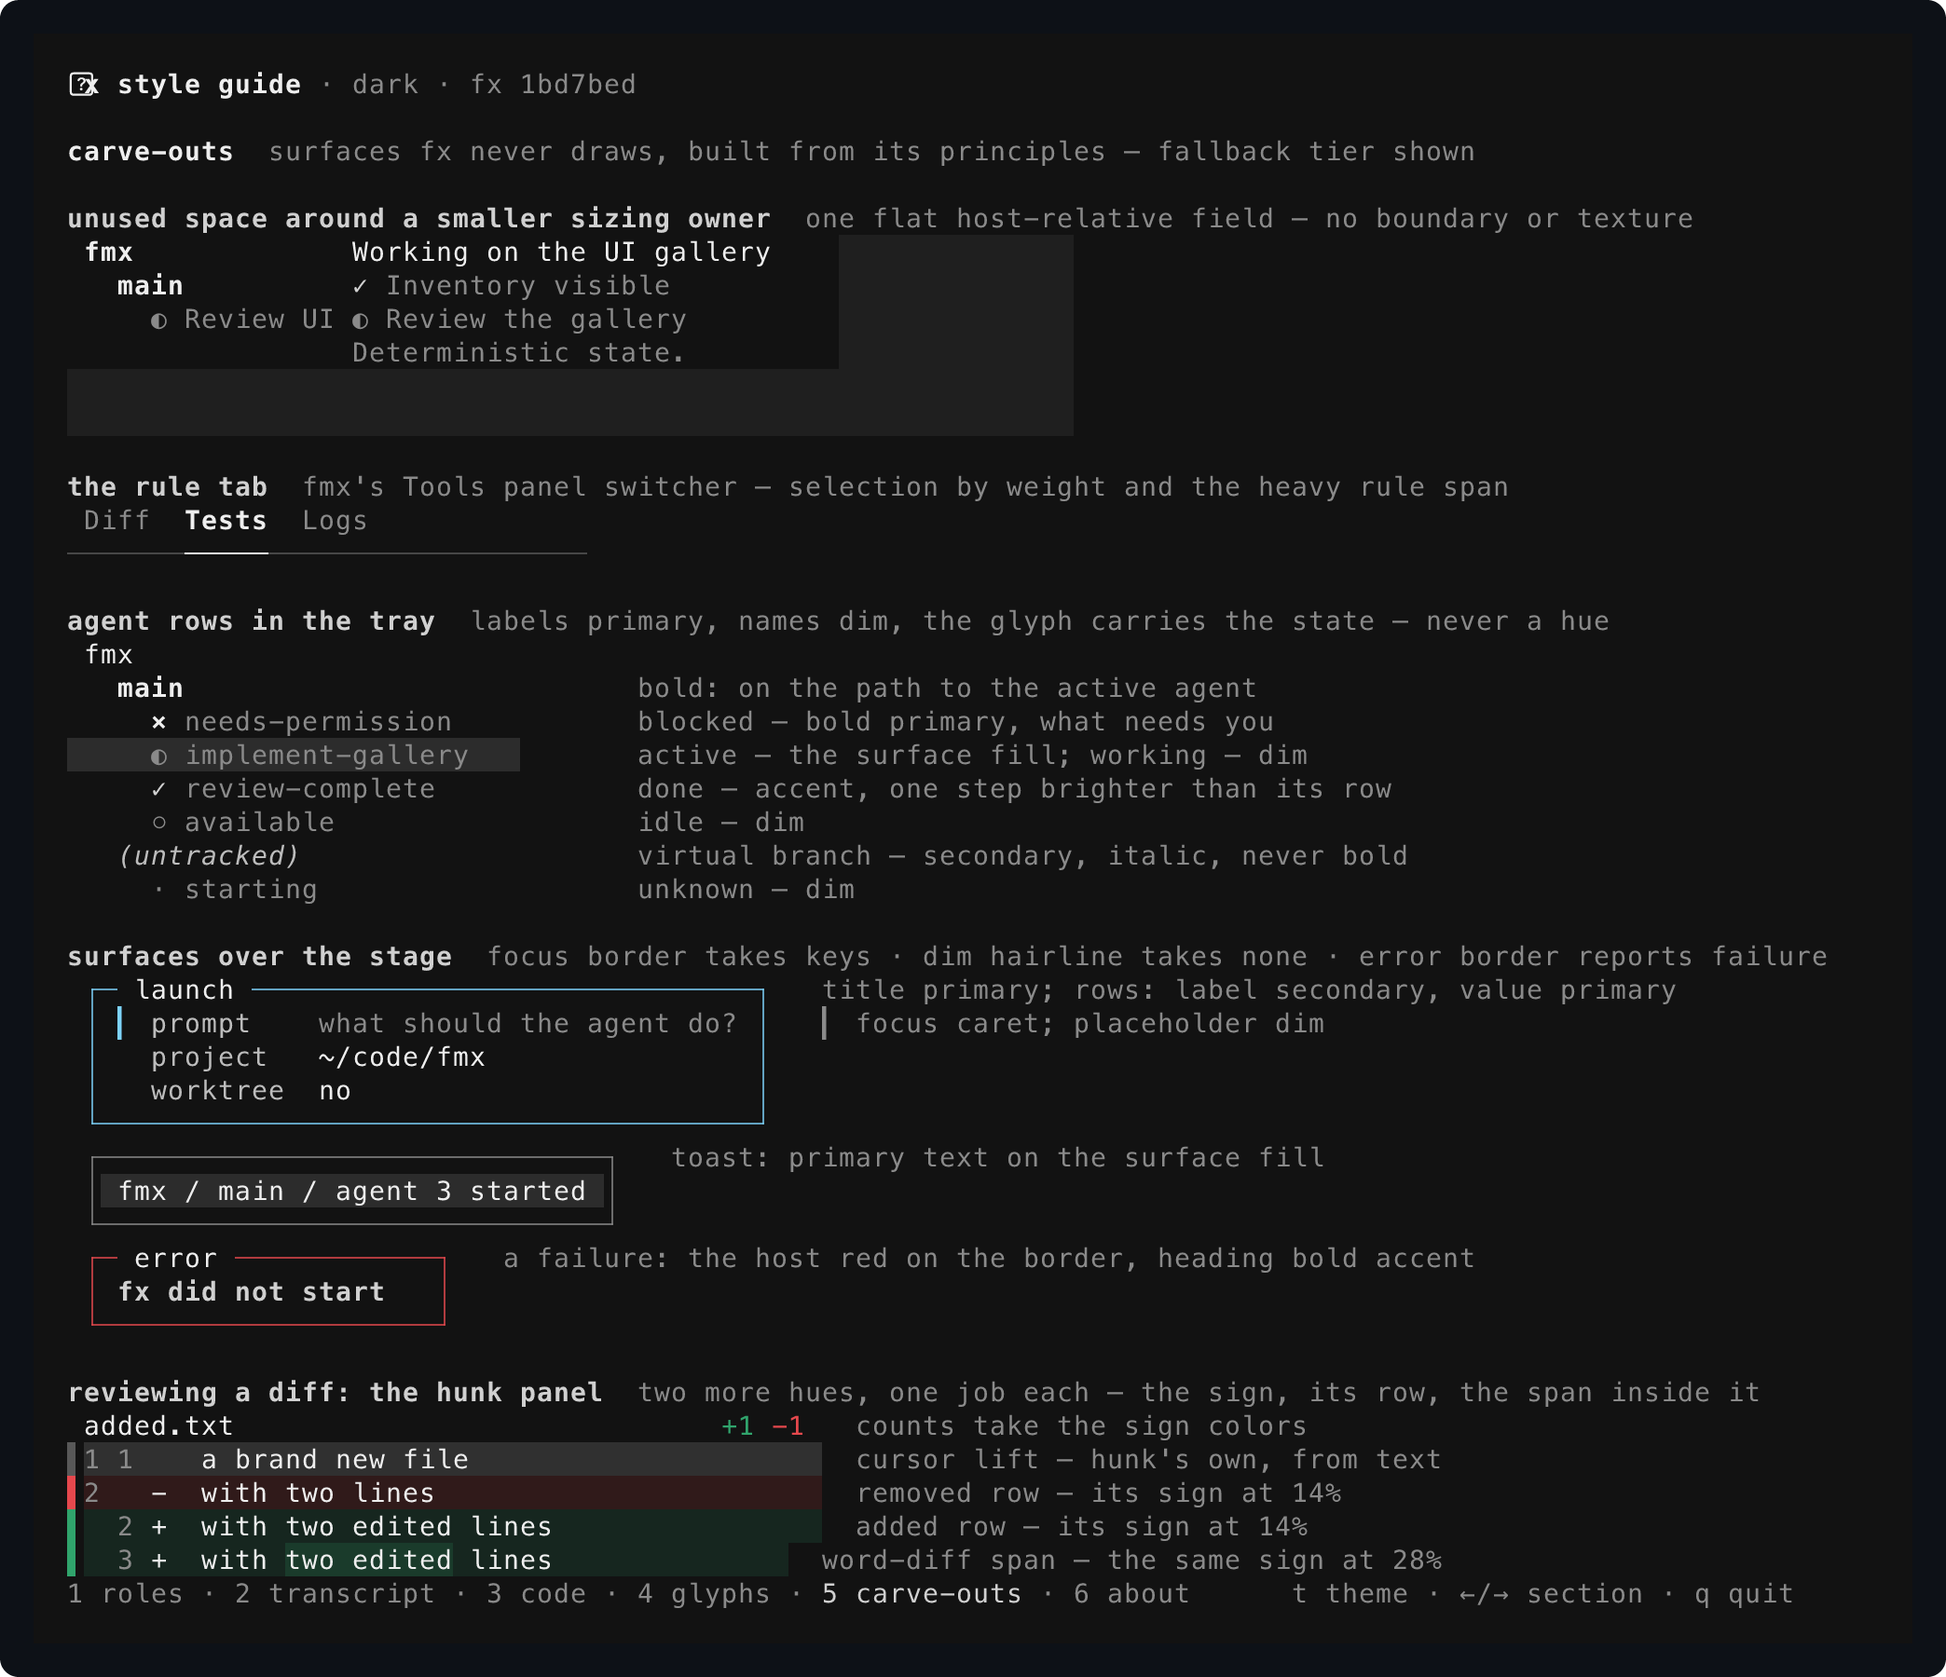
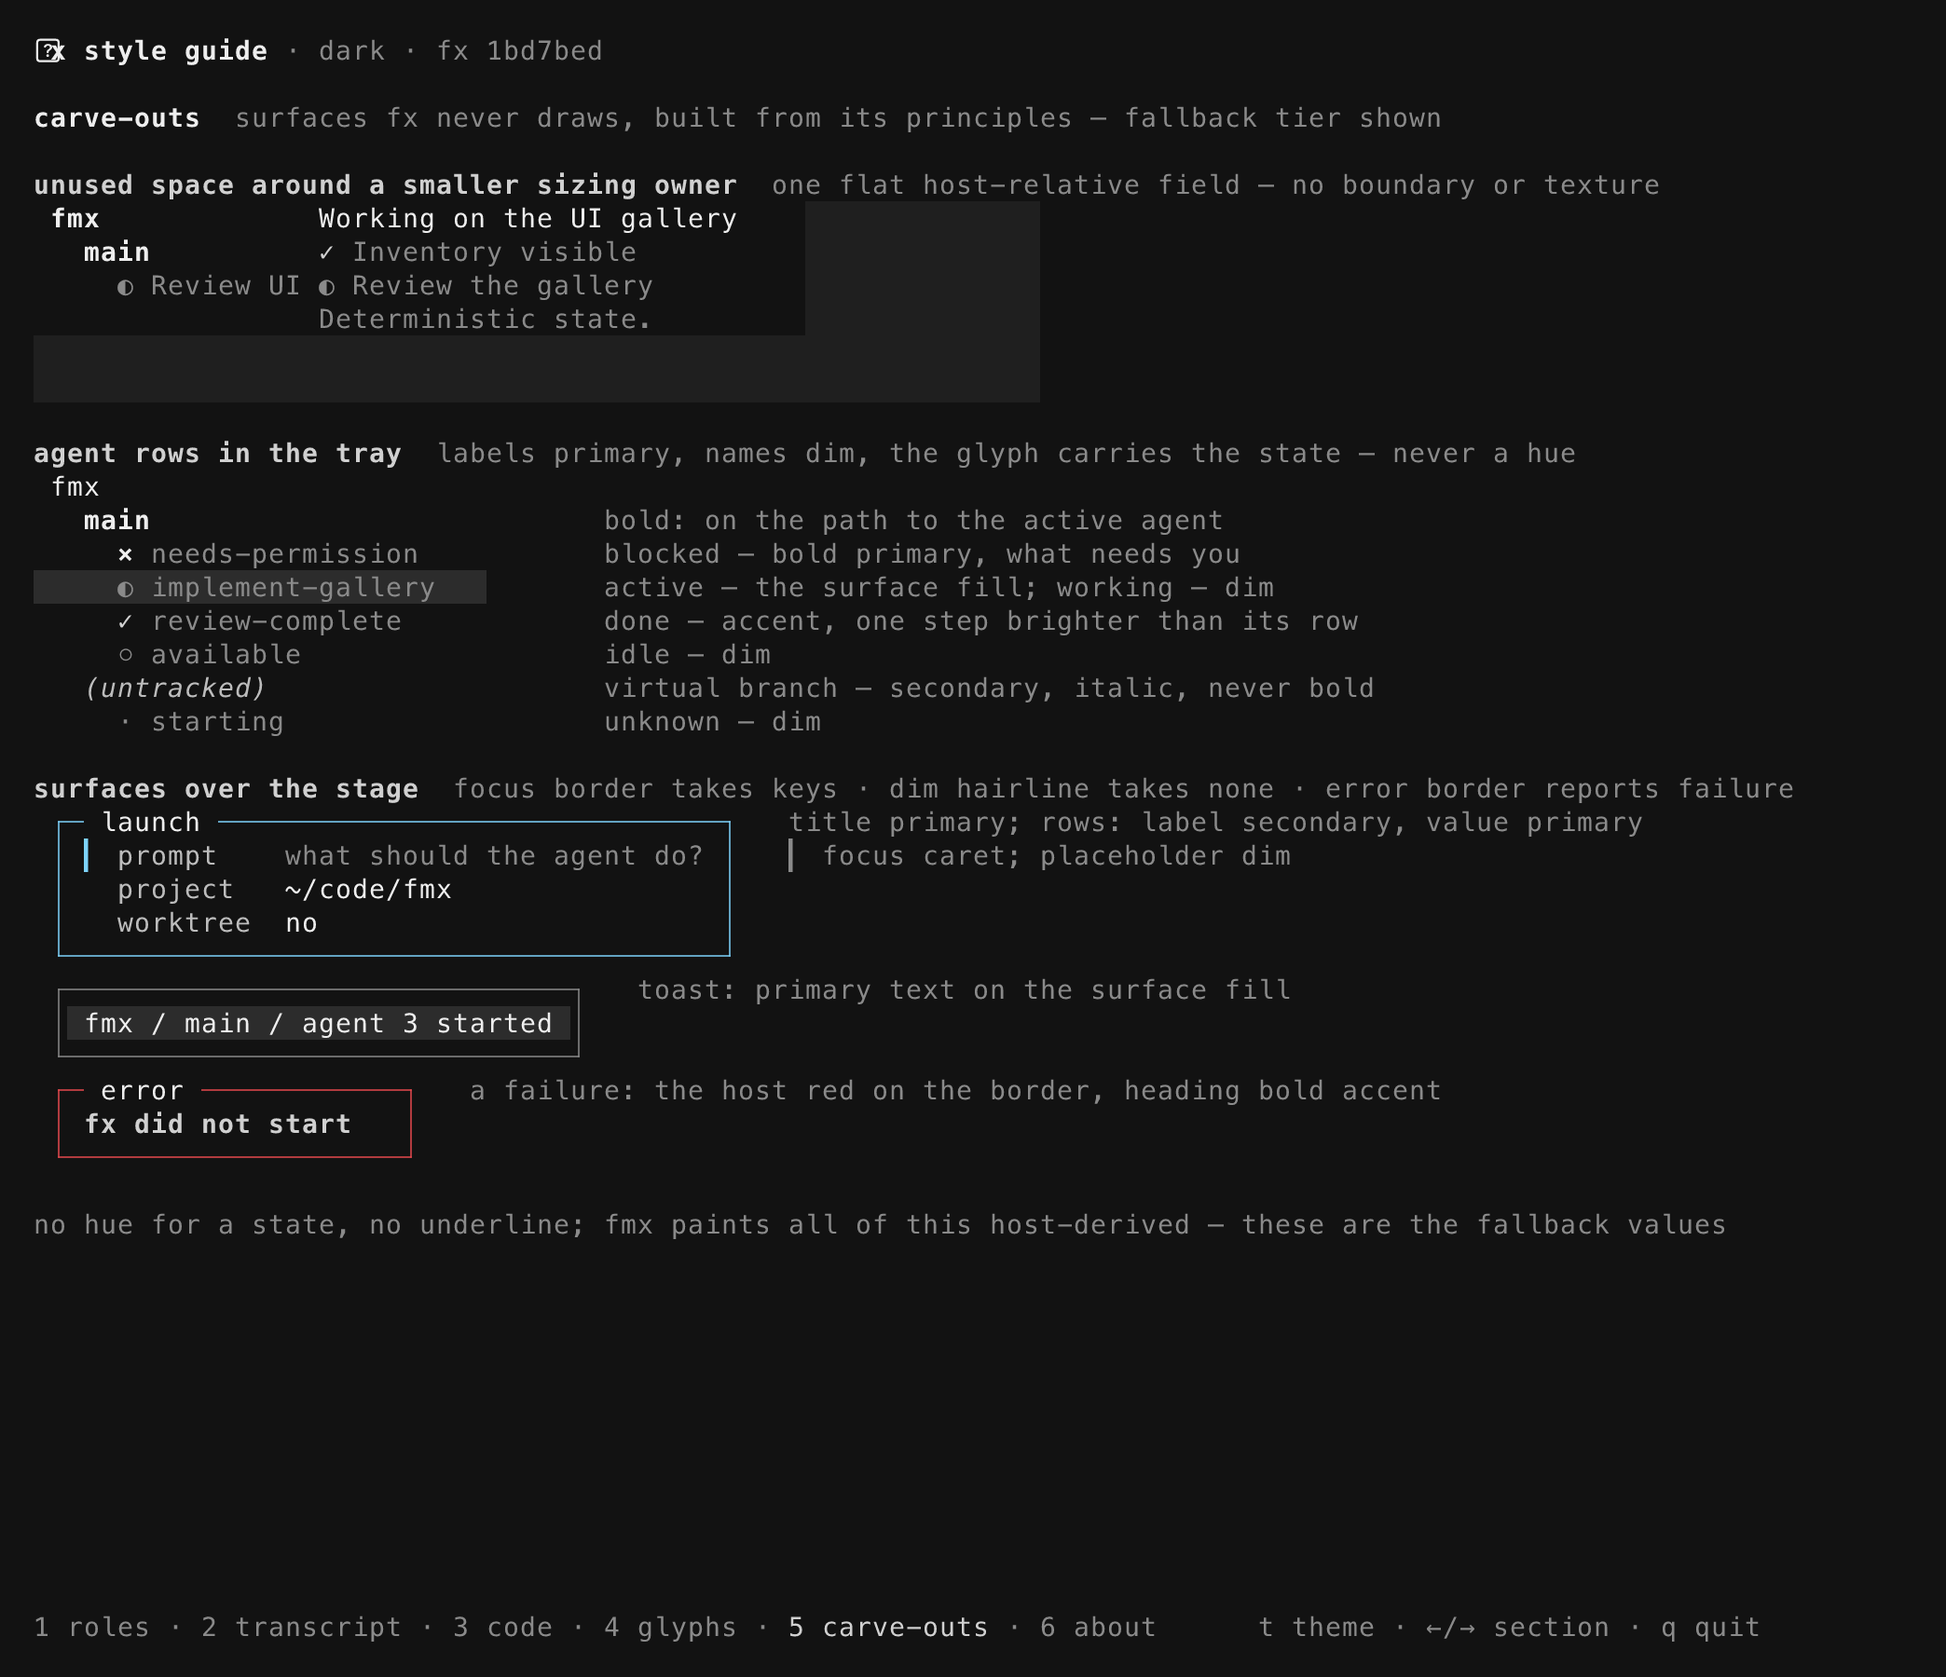
Remove fmx panel carve-outs

diff --git a/style/viewer/index.ts b/style/viewer/index.ts
@@ -50,10 +50,6 @@ const FMX_FOCUS = "#7dd3fc"
 const FMX_ERROR = (tokens.diff_markers.removed.truecolor as StyleValue).fg!.hex
 const UNUSED_SPACE_BLEND = 0.06
 const SURFACE_BLEND = 0.12
-// The diff panel's two hues, carried into a row and into the word-diff span
-// inside it — the one carve-out that spends color (see STYLE.md).
-const DIFF_ROW_TINT = 0.14
-const DIFF_SPAN_TINT = 0.28
 
 function mix(base: string, tint: string, amount: number): string {
   const channel = (offset: number) => {
@@ -233,30 +229,7 @@ function carveOutsSection(theme: Theme): Line[] {
   lines.push([unusedFill(ownerWidth + unusedWidth)])
   lines.push([])
 
-  // 2. The rule tab: the Tools panel's switcher.
-  lines.push(heading("the rule tab", "fmx's Tools panel switcher — selection by weight and the heavy rule span"))
-  const items = ["Diff", "Tests", "Logs"]
-  const selected = 1
-  const labels: Line = []
-  const rule: Line = []
-  items.forEach((label, i) => {
-    labels.push(note(" ", t))
-    rule.push(paint(role("divider", t), "─", t))
-    labels.push(i === selected ? paint(role("selected_completion", t), label, t) : note(label, t))
-    rule.push(
-      i === selected
-        ? paint(role("hint", t), "━".repeat(label.length), t)
-        : paint(role("divider", t), "─".repeat(label.length), t),
-    )
-    labels.push(note(" ", t))
-    rule.push(paint(role("divider", t), "─", t))
-  })
-  rule.push(paint(role("divider", t), "─".repeat(12), t))
-  lines.push(labels)
-  lines.push(rule)
-  lines.push([])
-
-  // 3. Agent rows in the tray: state by glyph and weight.
+  // 2. Agent rows in the tray: state by glyph and weight.
   lines.push(heading("agent rows in the tray", "labels primary, names dim, the glyph carries the state — never a hue"))
   const name = (text: string) => paint(role("dim", t), text, t)
   const fill = (chunk: TextChunk) => bg(surface(t))(chunk)
@@ -276,7 +249,7 @@ function carveOutsSection(theme: Theme): Line[] {
   lines.push([paint(role("dim", t), "     · ", t), name("starting"), annotate(15, "unknown — dim")])
   lines.push([])
 
-  // 4. Surfaces over the stage: focus border takes keys, dim hairline takes none.
+  // 3. Surfaces over the stage: focus border takes keys, dim hairline takes none.
   lines.push(heading("surfaces over the stage", "focus border takes keys · dim hairline takes none · error border reports failure"))
   const F = (text: string) => fg(FMX_FOCUS)(text)
   const E = (text: string) => fg(FMX_ERROR)(text)
@@ -299,40 +272,6 @@ function carveOutsSection(theme: Theme): Line[] {
   lines.push([E(" └" + "─".repeat(20) + "┘")])
   lines.push([])
 
-  // 5. The diff panel: the one surface where two more hues are spent.
-  lines.push(heading("reviewing a diff: the hunk panel", "two more hues, one job each — the sign, its row, the span inside it"))
-  const added = (tokens.diff_markers.added.truecolor as StyleValue).fg!.hex
-  const removed = (tokens.diff_markers.removed.truecolor as StyleValue).fg!.hex
-  const row = (tint: string) => mix(CANVAS[t], tint, DIFF_ROW_TINT)
-  const span = (tint: string) => mix(CANVAS[t], tint, DIFF_SPAN_TINT)
-  const gutter = (text: string) => paint(role("dim", t), text, t)
-  const code = (text: string) => paint(role("hint", t), text, t)
-  const diffWidth = 44
-  const diffRow = (rail: string, gutterText: string, text: string, fill: string | null, tail: string): Line => {
-    const body: Line = [gutter(gutterText), code(text), note(" ".repeat(Math.max(0, diffWidth - gutterText.length - text.length)), t)]
-    return [
-      fg(rail)("▌"),
-      ...(fill ? body.map((chunk) => bg(fill)(chunk)) : body),
-      note("  " + tail, t),
-    ]
-  }
-  lines.push([code(" added.txt"), note(" ".repeat(diffWidth - 15), t), fg(added)("+1"), note(" ", t), fg(removed)("-1"), note("   counts take the sign colors", t)])
-  // The cursor lift is hunk's own derivation: text blended 20% from the
-  // appearance's extreme, not from the host's background.
-  const cursorLift = mix(t === "dark" ? "#000000" : "#ffffff", role("hint", t).fg!.hex, 0.2)
-  lines.push(diffRow(role("divider", t).fg!.hex, "1 1    ", "a brand new file", cursorLift, "cursor lift — hunk's own, from text"))
-  lines.push(diffRow(removed, "2   ", "-  with two lines", row(removed), "removed row — its sign at 14%"))
-  lines.push(diffRow(added, "  2 ", "+  with two edited lines", row(added), "added row — its sign at 14%"))
-  lines.push([
-    fg(added)("▌"),
-    bg(row(added))(gutter("  3 ")),
-    bg(row(added))(code("+  with ")),
-    bg(span(added))(code("two edited")),
-    bg(row(added))(code(" lines")),
-    bg(row(added))(note(" ".repeat(diffWidth - 30), t)),
-    note("  word-diff span — the same sign at 28%", t),
-  ])
-  lines.push([])
   lines.push([note("no hue for a state, no underline; fmx paints all of this host-derived — these are the fallback values", t)])
   return lines
 }

diff --git a/style/STYLE.md b/style/STYLE.md
@@ -1,7 +1,7 @@
 # The fx style guide, for fmx
 
 fx is the living style guide for fmx: whenever fmx draws its own chrome —
-modals, toasts, panels, status rows — it should look like it belongs in the
+modals, toasts, tray rows, status rows — it should look like it belongs in the
 same instrument as the fx it embeds. This document extracts fx's visual
 language into rules and values fmx developers can borrow directly.
 
@@ -155,10 +155,10 @@ symbols like `✓` and `→` are fine).
 
 ## Carve-outs: what fx has no surface for
 
-fx is a transcript with a prompt; it has no tabs, no docks, no switcher. When
-fmx needs a surface fx never draws, the rule is to build it from fx's
-principles — one ramp, weight and glyph for state, no hue, no underline —
-and record it here as a carve-out. Nothing below is extracted from fx:
+fx is a transcript with a prompt; it has no tray, transient stage surfaces, or
+shared Client field. When fmx needs a surface fx never draws, the rule is to
+build it from fx's principles — one ramp, weight and glyph for state, no hue,
+no underline — and record it here as a carve-out. Nothing below is extracted from fx:
 `tokens.json` does not carry it, `style-extract.sh --check` cannot see it,
 and a maintenance cycle must not "correct" it back to fx.
 
@@ -190,33 +190,6 @@ resizes and every Client repaints.
 Why this shape: a border made the shared frame look nested, and any repeated
 mark made unused space compete with the work. A theme-relative flat field is
 visible without becoming content of its own.
-
-### Switching items in a panel: the rule tab
-
-The Tools panel's switcher (`fmx/src/tool-panel.ts`) is a **rule tab**: one
-row of labels over one row of hairline.
-
-```
- Diff  Tests  Logs
-───────━━━━━───────────────
-```
-
-| part | role | dark | light |
-|---|---|---|---|
-| selected label | `selected_completion` (bold primary) | bold 255 | bold 235 |
-| other labels | `dim` | 245 | 247 |
-| rule under the selection | `hint` (primary), glyph `━` | 255 | 235 |
-| rule elsewhere | `divider`, glyph `─` | 240 | 250 |
-
-Why this shape and not another: the divider glyph does the underlining, so
-the no-underline rule holds; the selection is bold like fx's selected menu
-row; nothing in it takes the accent hue, which fmx keeps for focus and
-failure. In fmx the values are host-derived per "Borrowing into fmx" —
-`hostRamp().foreground`, `.dim`, and `.divider` — and the column above is
-the no-answer fallback tier. Other shapes considered and not taken: weighted
-words with `·` separators (fx's statusline idiom, but reads as status rather
-than a control), an inverse chip (fx's button idiom, too loud for a
-persistent dock), a cycler (hides the other items).
 
 ### Agent rows in the tray
 
@@ -303,69 +276,6 @@ Not taken: a green success toast (fx's `green` is gray; "started" is in the
 words), red text inside the error modal (the border already says failure;
 one red per surface), bold titles (OpenTUI box titles take a color only).
 
-### Reviewing a diff: the hunk panel
-
-fx has no diff. fmx's Tools panel runs [hunk](https://github.com/modem-dev/hunk)
-over the active agent's working tree, and hunk paints its own themes — so
-this is the one surface in the instrument that another program draws. fmx
-takes it back: it ships hunk a theme extension computed from the Ramp and
-launches the panel with `--extension`, `--theme fmx`, and `--transparent-bg`
-(`fmx/src/hunk-theme.ts`). Nothing of the human's `~/.config/hunk/` is read
-or written, and a hunk run by hand is untouched.
-
-Chrome is the Ramp, unchanged. What is new is that **inside the diff two
-more hues exist**, under the same law focus and error live by: one job
-each, and nothing else may take them.
-
-```
- added.txt                                            +1  -1
-▌1 1    a brand new file                                        ← cursor lift
-▌2   -  with two lines                                          ← removed row
-▌  2 +  with two edited lines                                   ← added row
-```
-
-| part | value | why |
-|---|---|---|
-| background, panel, context rows, line-number gutter | **transparent** — the terminal's own background, which fmx keeps pointed at the host's | the panel is flat, like fx; and these follow a live host theme change even though a running hunk cannot be restyled |
-| file names, code | `hint` (primary) | |
-| hunk headers, line numbers, menu bar | `dim` | |
-| rules and separators | `divider` | |
-| selected hunk fill, note body | the surface fill (12%) | fx's one raised step, kept for the thing that is actually raised |
-| note border, selection accent | **focus** | a surface that takes keys, as everywhere else |
-| `+`/`-` sign, the rail marker | **added** `#30a46c` / **removed** `#e5484d` — fx's own `diff_markers`, identical on either canvas | fx spends these two and no others on a diff |
-| added / removed row | its sign mixed **14%** toward the host background | |
-| word-diff span inside a row | its sign mixed **28%** — one step louder | the span is the emphasis; the row is the context for it |
-| `+n`/`-n` line counts, new / deleted file | the sign colors at full strength | a count of added and removed lines *is* the sign's semantic |
-| everything else — neutral badges, modified, renamed, untracked | `dim` / `system_notice_text` | not add-or-remove, so not a hue |
-| syntax highlighting | inherited from `github-dark-default` / `github-light-default` | fx's four code grays are a possible later refinement; unreadable code is worse than borrowed color |
-
-The tints are computed from the host's background rather than shipped as
-constants, which is what makes one set of numbers work on either canvas:
-14%/28% of `#30a46c` into `#0d1117` gives `#122623`/`#173a2f`, and into
-`#ffffff` gives `#e2f2ea`/`#c5e6d6`. Captures in `style/captures/`:
-`hunk-dark`, `hunk-light`, `hunk-fallback` — real hunk driven in a PTY with
-the ramp in `FMX_RAMP` and the host background set by OSC 11, not regenerated
-by `style-capture.sh` (which deliberately needs only fx). `carve-outs-dark`
-and `carve-outs-light` are the viewer's own section.
-
-Why color at all, when the rest of the guide spends almost none: a diff is
-the one place where the *reader* is scanning for two opposed states at
-speed, and fx already concedes the point — `diff_markers` is the only pair
-of hues in `tokens.json` outside the code highlighter. Carrying the sign's
-hue faintly into its row is what lets a hunk be read at a glance instead of
-character by character. Not taken: hunk's stock GitHub row tints (a theme
-fmx did not choose), colored neutral badges and file-status colors (state
-by hue, which fx forbids), and hunk's own accent (fmx's focus is the host's
-blue and means "this takes keys").
-
-Two things on this surface are hunk's, not fmx's, because they are derived
-rather than configured. The **cursor-line lift** blends `text` 20% from the
-appearance's own extreme, so it tracks the Ramp but not the host's exact
-background. The **inactive hunk rail** blends toward `panel`, which
-`--transparent-bg` has made a sentinel — so it darkens instead of quieting,
-which reads heavy on a light host. Both are upstream fixes, not fmx's to
-paint around.
-
 ## Borrowing into fmx
 
 fmx's own surfaces derive from the host terminal's palette
@@ -404,7 +314,8 @@ shared principle than fx's fixed grays. So the rule is not "copy the hex":
    reports a failure. Nothing else in fmx is chromatic. A new state gets a
    glyph and a weight, never a hue.
 4. **Match the glyph vocabulary** where fmx shows the same concepts:
-   agent/tool state glyphs, `·` separators, prompt rails.
+   Agent state glyphs borrowed from fx's tool vocabulary, `·` separators,
+   prompt rails.
 5. **State by shape and weight first**, color second — a colorblind-safe
    habit fx enforces by having almost no color at all.
 

diff --git a/MAINTAIN.md b/MAINTAIN.md
@@ -411,11 +411,10 @@ The extractor's five parsed sites (role palette `src/ui/render.zig`
 elsewhere in fx are always dark-ramp values covered by the retint map, so
 tracking the five sites plus the index census is complete coverage.
 
-Carve-outs are the one part of the guide that is not extracted. fx has no
-tabs, docks, trays, or modals, so surfaces fmx needs and fx never draws —
-today the Tools panel's rule tab, the tray's agent rows, the surfaces drawn
-over the stage, the unused field around a smaller sizing owner, and the hunk
-diff panel — are designed from fx's principles and recorded in
+Carve-outs are the one part of the guide that is not extracted. Surfaces fmx
+needs and fx never draws — today the tray's agent rows, surfaces drawn over
+the stage, and the unused field around a smaller sizing owner — are designed
+from fx's principles and recorded in
 `style/STYLE.md` § "Carve-outs", with the viewer's "carve-outs" section
 rendering them from ramp tokens. They are deliberately absent from
 `tokens.json`, invisible to `style-extract.sh --check`, and must never be

diff --git a/CONTEXT.md b/CONTEXT.md
@@ -79,8 +79,8 @@ CI verdict yet, because the suite is still running, was cancelled by a newer
 publication, or never started. Deferred is normal; overdue is escalated.
 _Avoid_: pending gate, blocked ship.
 
-**Carve-out** — a surface fmx needs that fx never draws (a tab, a tray row, a
-modal, or unused Client space), designed from fx's principles and recorded in
+**Carve-out** — a surface fmx needs that fx never draws (a tray row, a modal,
+or unused Client space), designed from fx's principles and recorded in
 `style/STYLE.md`
 § "Carve-outs", with the viewer rendering it from ramp tokens. It is not
 extracted, invisible to `style-extract.sh --check`, and never reconciled
